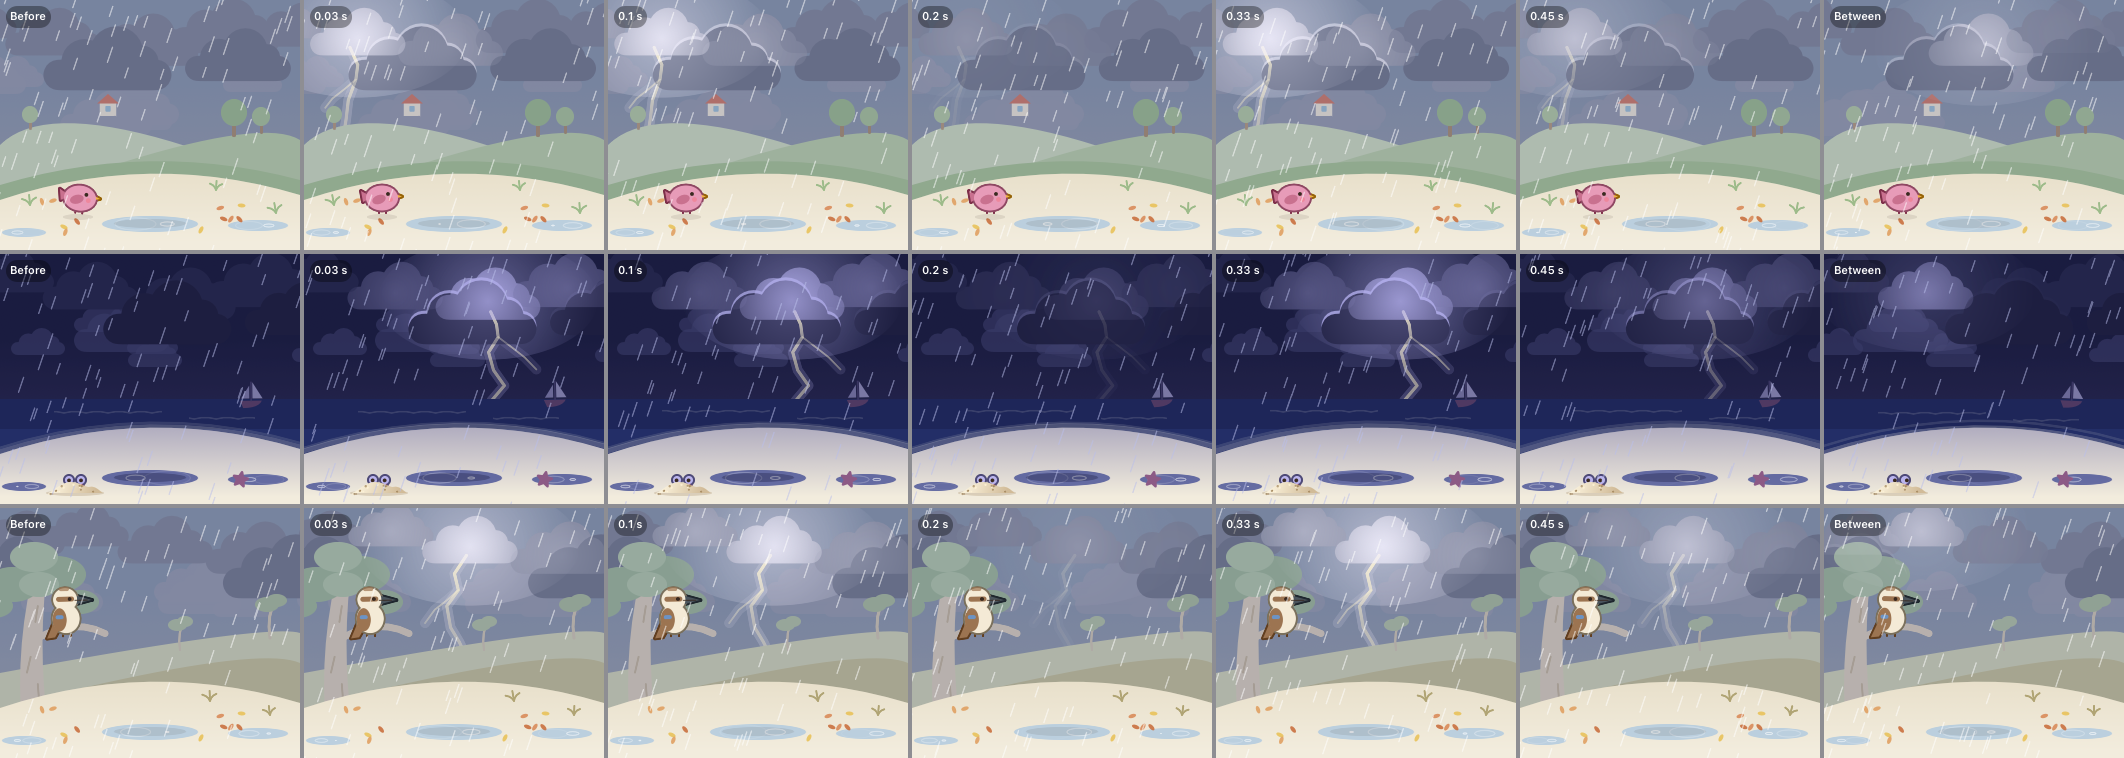
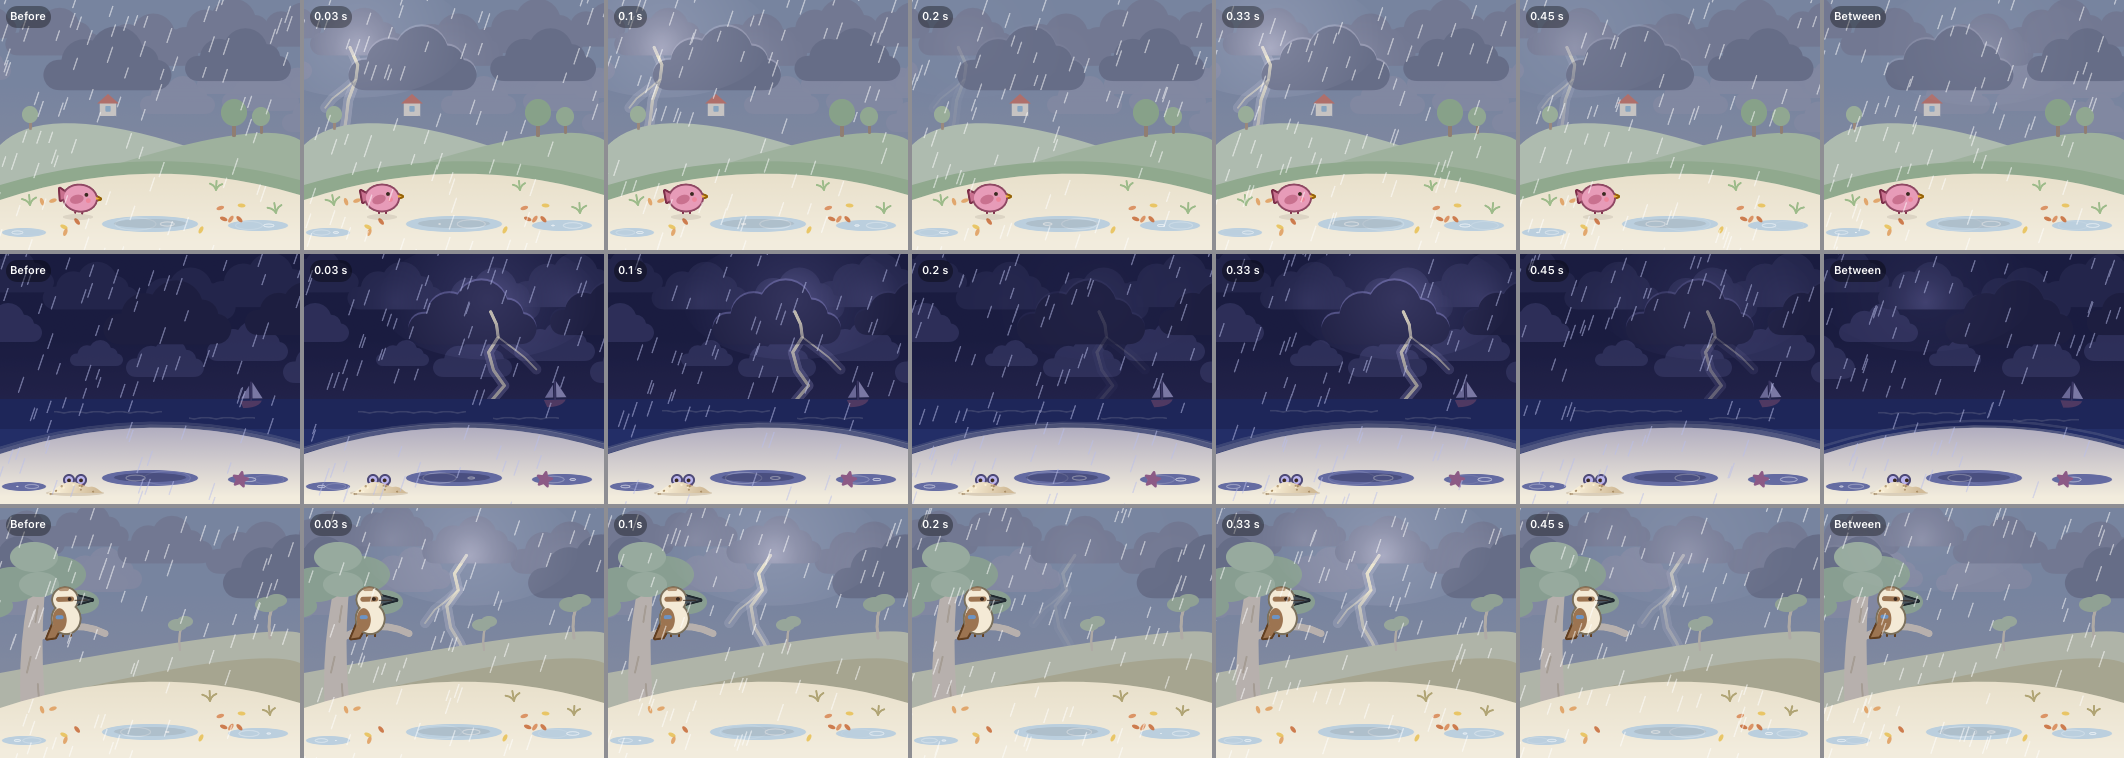
Lightning: the struck cloud lit softly from below, not pale on top of the others

diff --git a/app/Puggle/Design/Weather.swift b/app/Puggle/Design/Weather.swift
@@ -393,6 +393,8 @@ struct StormSky: View {
             let dark = Color(hex: night ? 0x2B2D58 : 0x7C8299)
             let darker = Color(hex: night ? 0x222348 : 0x6A7089)
             let lit = Color(hex: night ? 0xB4B0EE : 0xF3F1FF)
+            // A cloud lit from inside stays a cloud: a softer, greyer light than the rims and the bolt.
+            let inside = Color(hex: night ? 0x8C88CC : 0xD6D5EA)
             let bolt = Color(hex: 0xFFF6D6)
 
             // How lit a cloud is: full for the one the flash is in, less with distance.
@@ -410,10 +412,10 @@ struct StormSky: View {
             }
 
             // A soft light in the sky behind the flash.
-            for (index, glow) in [(struck, strike.glow), (sheeted, sheet.glow * 0.7)] where glow > 0 {
+            for (index, glow) in [(struck, strike.glow), (sheeted, sheet.glow * 0.7)] where glow > 0 && lightOnly {
                 let centre = CGPoint(x: bank[index].midX, y: bank[index].midY + 6)
                 context.fill(Path(ellipseIn: CGRect(x: centre.x - 110, y: centre.y - 60, width: 220, height: 120)),
-                             with: .radialGradient(Gradient(colors: [lit.opacity(0.45 * glow), lit.opacity(0)]), center: centre, startRadius: 0, endRadius: 110))
+                             with: .radialGradient(Gradient(colors: [inside.opacity(0.3 * glow), inside.opacity(0)]), center: centre, startRadius: 0, endRadius: 110))
             }
 
             // The bolt, behind its cloud, so it comes out of the underside; it ends behind the far hills.
@@ -463,15 +465,19 @@ struct StormSky: View {
             }
 
             // The bank, each cloud lit from inside by however near the flash is.
+            // Lit once, in the light pass, and never over the near clouds, which stay in front.
+            let inFront = near.reduce(Path()) { $0.union(CloudShape().path(in: $1)) }
             for rect in bank {
                 let path = CloudShape().path(in: rect)
                 if !lightOnly { context.fill(path, with: .color(dark)) }
                 let amount = light(rect)
-                if amount > 0 {
-                    // Brightest in the middle, as if the light is inside it.
-                    context.fill(path, with: .radialGradient(Gradient(colors: [lit.opacity(amount), lit.opacity(amount * 0.35)]),
-                                                             center: CGPoint(x: rect.midX, y: rect.midY + rect.height * 0.15),
-                                                             startRadius: 0, endRadius: rect.width * 0.55))
+                if amount > 0 && lightOnly {
+                    // Lit from low down, where the bolt leaves it, fading towards the top and the edges, so the
+                    // cloud keeps its storm colour around the light rather than turning pale all over.
+                    let base = CGPoint(x: rect.midX, y: rect.maxY - rect.height * 0.15)
+                    context.fill(path.subtracting(inFront),
+                                 with: .radialGradient(Gradient(colors: [inside.opacity(0.6 * amount), inside.opacity(0.22 * amount), inside.opacity(0)]),
+                                                       center: base, startRadius: 0, endRadius: rect.width * 0.5))
                 }
             }
             // The near clouds, darker, caught along their tops by the light behind them.
@@ -481,7 +487,8 @@ struct StormSky: View {
                 if lightOnly {
                     // Only the rim that shows above the cloud.
                     if amount > 0 {
-                        context.fill(path.offsetBy(dx: 0, dy: -3).subtracting(path), with: .color(lit.opacity(min(1, amount * 1.3))))
+                        // Soft and in the cloud's own light, so it never reads as an outline: the scenery has none.
+                        context.fill(path.offsetBy(dx: 0, dy: -2).subtracting(path), with: .color(inside.opacity(min(0.65, amount * 0.75))))
                     }
                 } else {
                     // The near cloud hides the bank's light where it is in front of it.

diff --git a/docs/baby-tracker-spec.md b/docs/baby-tracker-spec.md
@@ -2269,3 +2269,10 @@ light up. Drawn in `docs/previews/scenes/storm-strip.png` (frame by frame) and `
 - 110 tests pass. Not seen on a phone. Puggle's duck after a strike is still untested in the running app,
   because the simulator ignored the launch settings this session (Today opened with no family). That needs a
   look.
+
+**The struck cloud, toned down (17 November 2026).** Tom: the cloud the lightning comes from looked too light and
+stood out on top of the other clouds. It was being lit twice, once in each layer, and pale right to its edges.
+Now it's lit once, in a softer grey-lilac, from low down where the bolt leaves it and fading towards its top
+and edges, so it keeps its storm colour. The near clouds stay in front of its light. The rim on the near clouds
+is softer and in the same light, so it no longer reads as an outline. `storm-strip.png` and
+`thunderstorm.gif` redrawn. 110 tests pass.
